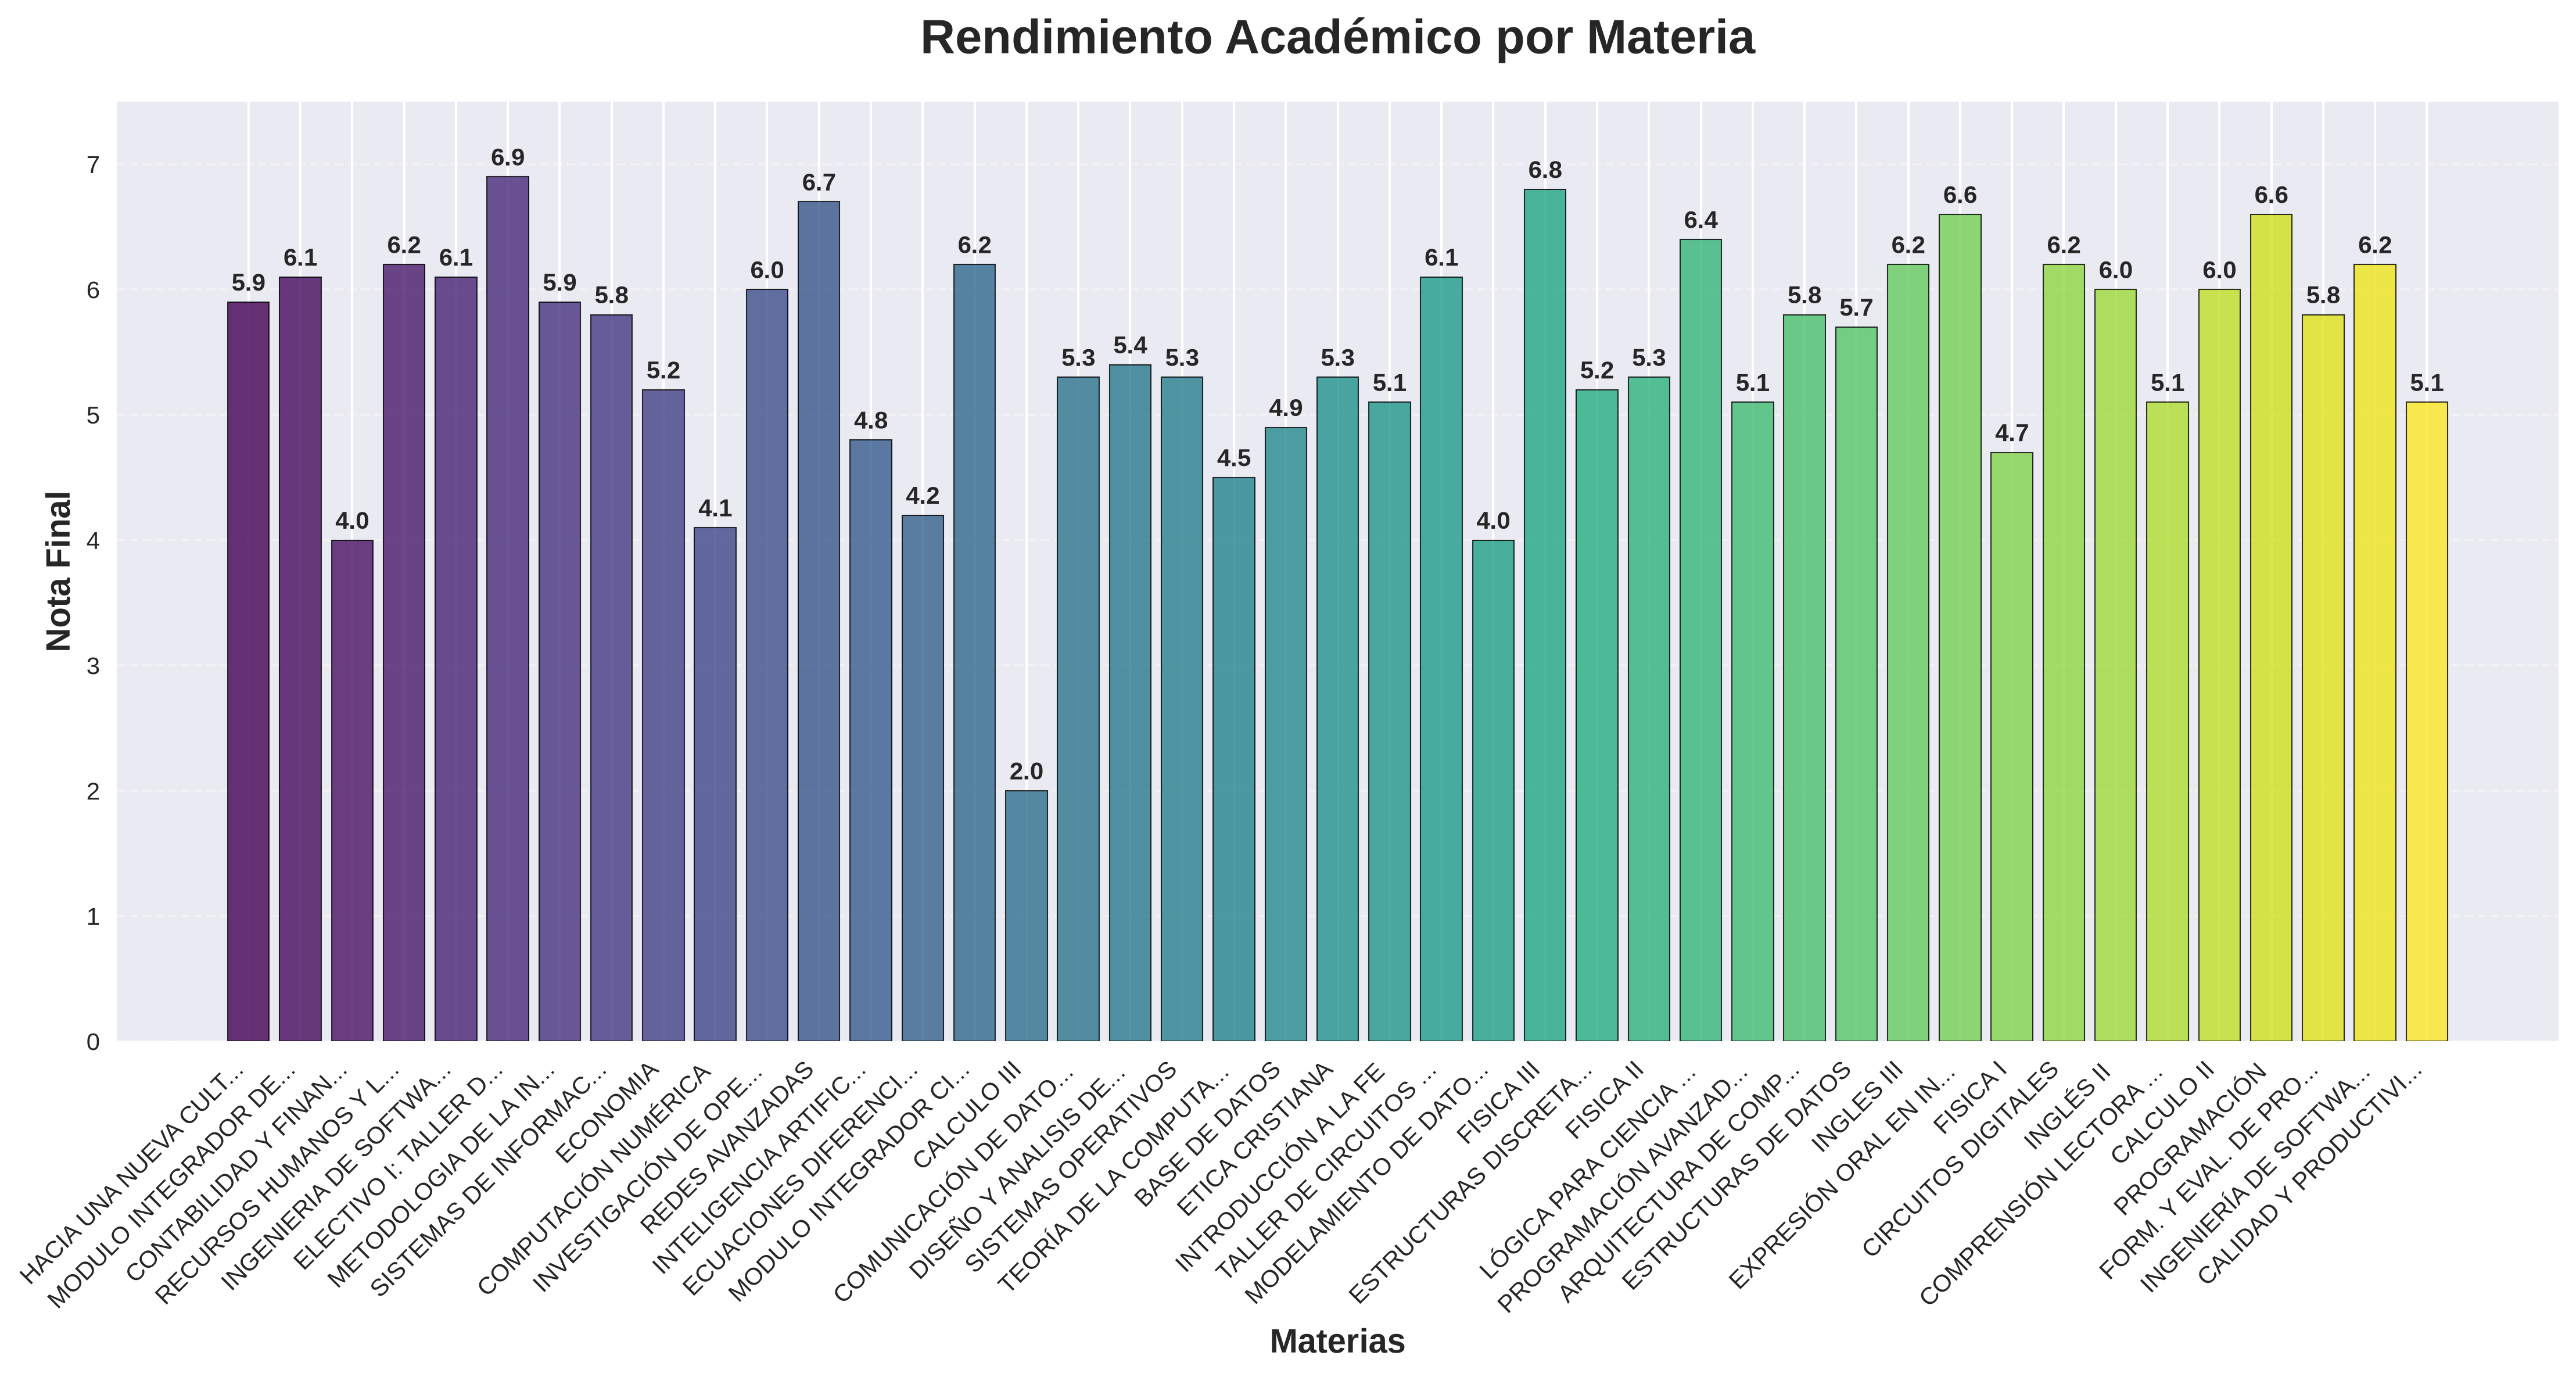
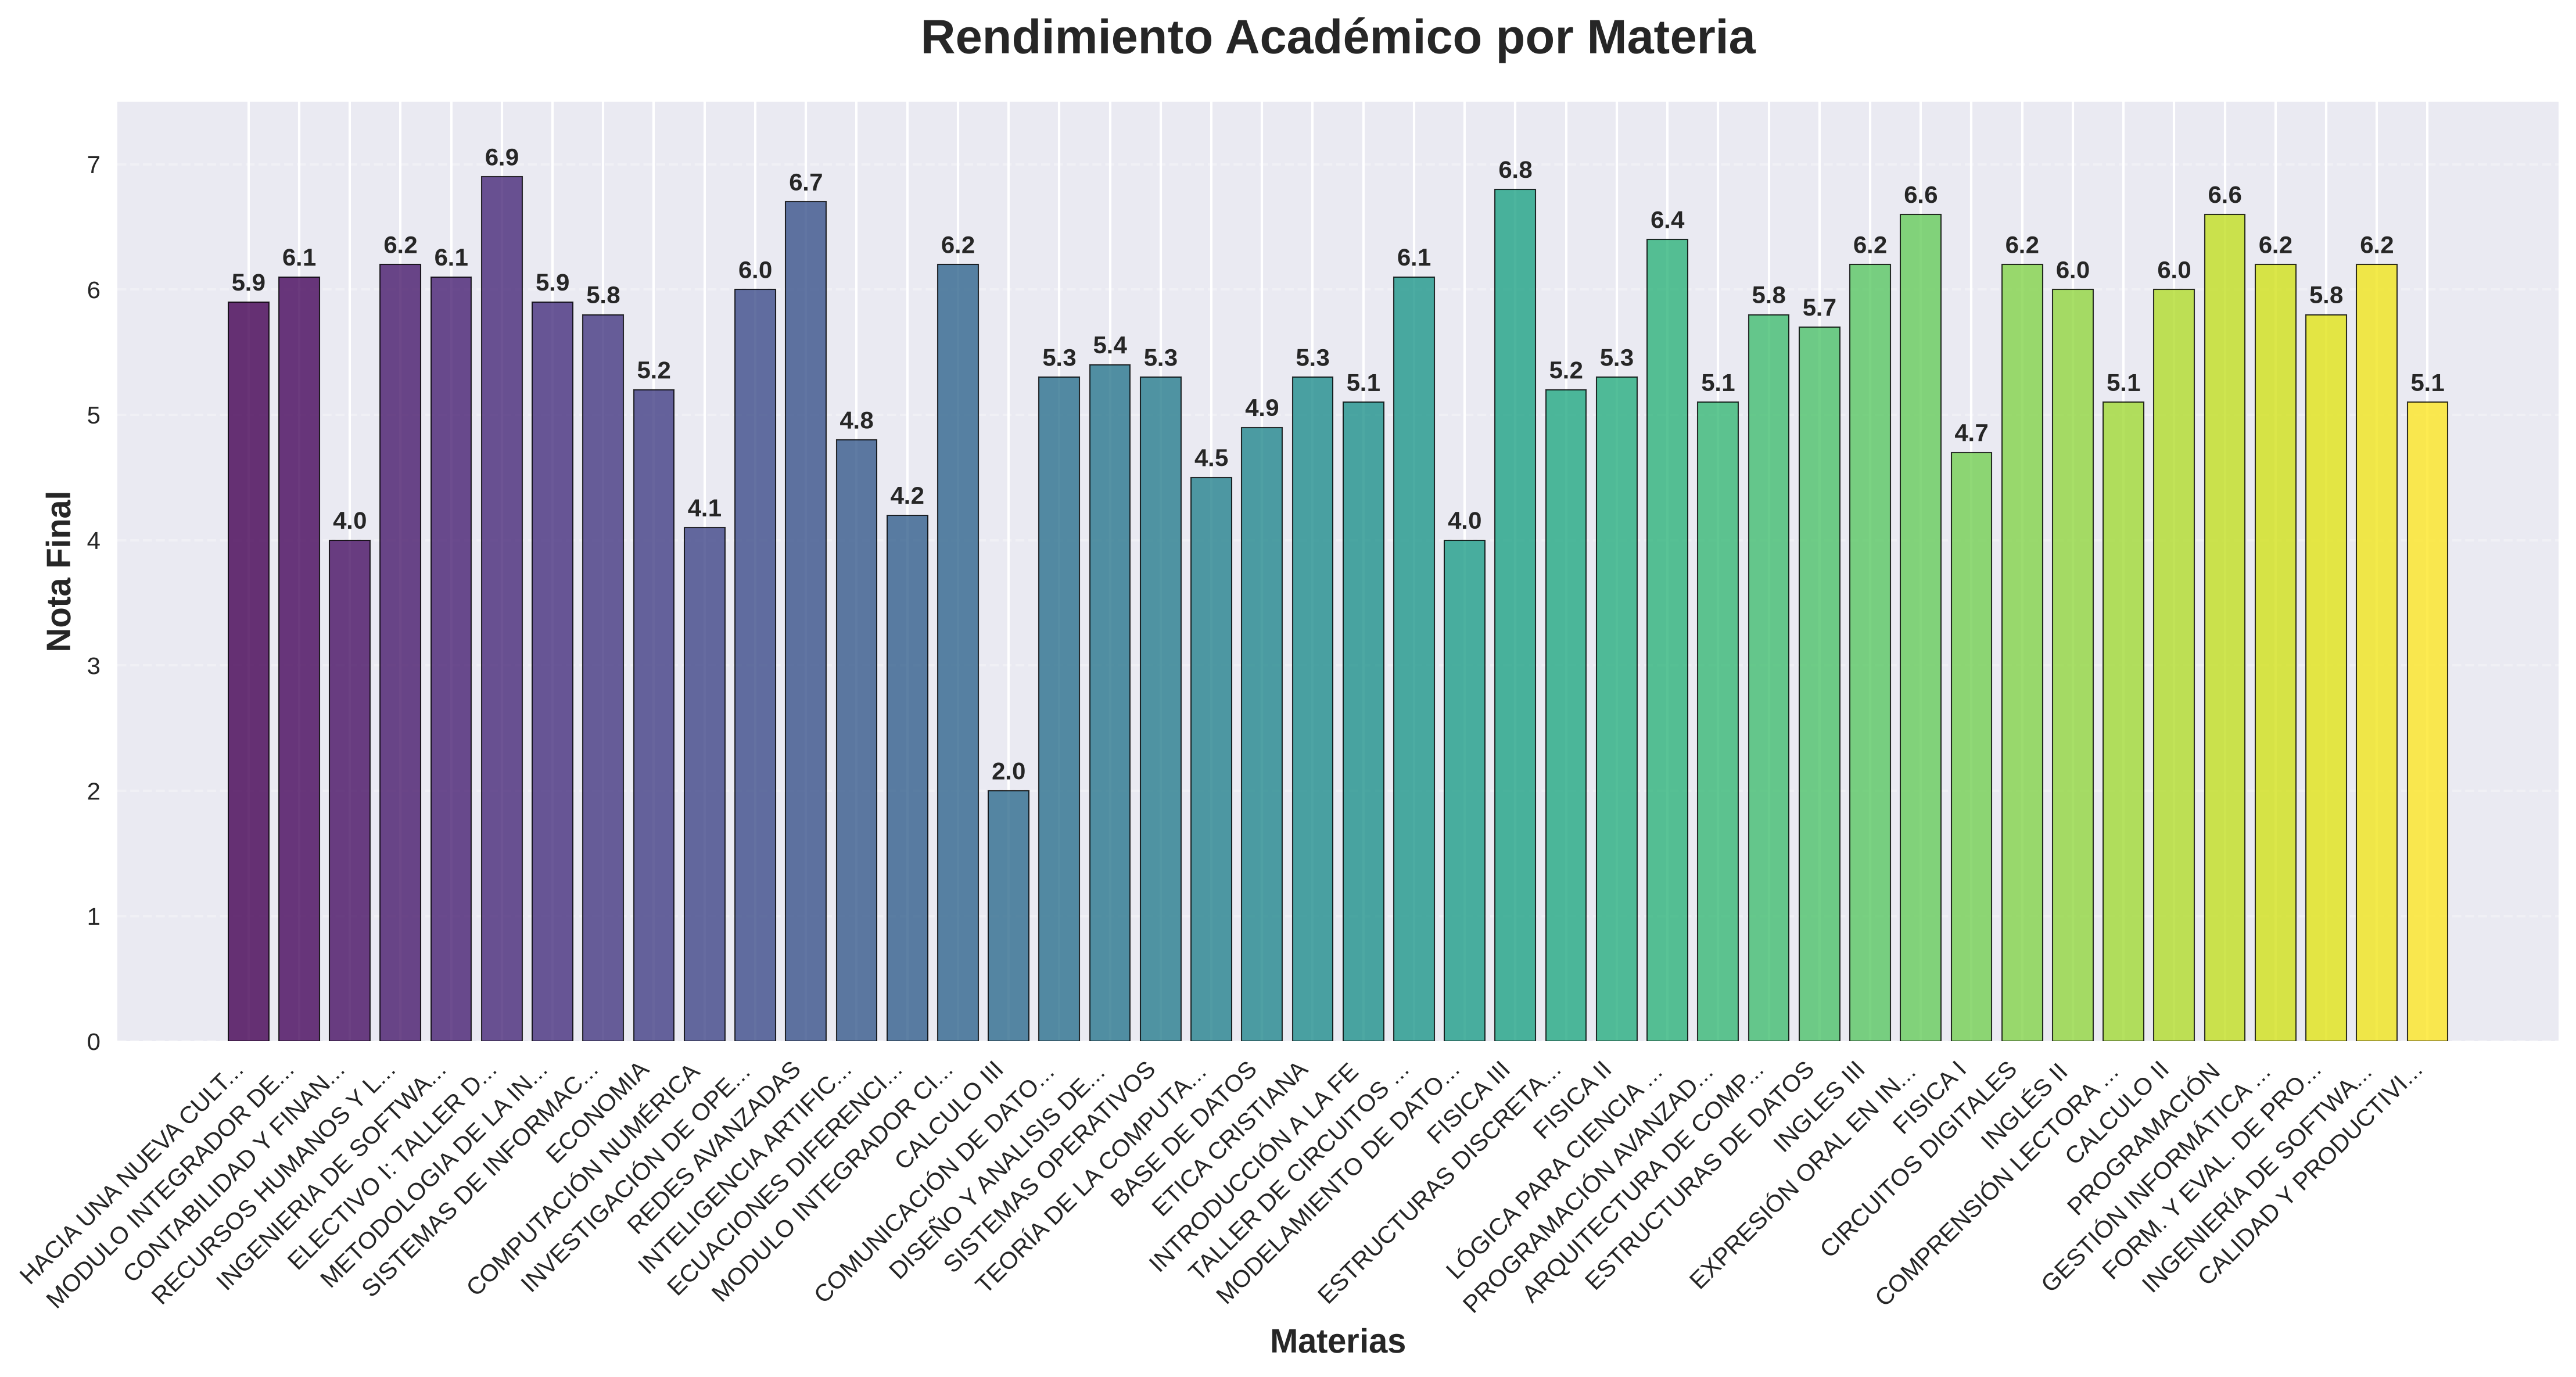
auto: actualizar notas y gráficos

Changed region(s): [[0.0311, 0.0937, 0.9337, 0.9367]]

diff --git a/dashboard/ramos_con_detalles.js b/dashboard/ramos_con_detalles.js
@@ -1,2 +1,2 @@
 /* Archivo generado automáticamente por el scraper. No editar a mano. */
-window.ramosData = {"ramos_con_detalles": [{"nombre": "HACIA UNA NUEVA CULTURA EMPRESARIAL", "nota_final": 5.9, "id_curso": "01005356", "componentes": [{"nombre": "Parcial", "porcentaje": "30%", "nota": 6.0}, {"nombre": "Parcial", "porcentaje": "30%", "nota": 7.0}, {"nombre": "Parcial", "porcentaje": "40%", "nota": 5.0}], "semestre": "Semestre 2 (Pre) 2025"}, {"nombre": "MODULO INTEGRADOR DE LICENCIATURA (PRACT", "nota_final": 6.1, "id_curso": "01003110", "componentes": [{"nombre": "Parcial", "porcentaje": "30%", "nota": 5.8}, {"nombre": "Parcial", "porcentaje": "30%", "nota": 6.4}, {"nombre": "Parcial", "porcentaje": "40%", "nota": 6.2}], "semestre": "Semestre 2 (Pre) 2025"}, {"nombre": "CONTABILIDAD Y FINANZAS", "nota_final": 4.0, "id_curso": "01003111", "componentes": [{"nombre": "Parcial", "porcentaje": "20%", "nota": 4.0}, {"nombre": "Parcial", "porcentaje": "20%", "nota": 5.9}, {"nombre": "Parcial", "porcentaje": "30%", "nota": 2.5}, {"nombre": "Parcial", "porcentaje": "30%", "nota": 4.1}], "semestre": "Semestre 2 (Pre) 2025"}, {"nombre": "RECURSOS HUMANOS Y LEGISLACIÓN", "nota_final": 6.2, "id_curso": "01003120", "componentes": [{"nombre": "Parcial", "porcentaje": "20%", "nota": 5.4}, {"nombre": "Parcial", "porcentaje": "25%", "nota": 6.5}, {"nombre": "Parcial", "porcentaje": "25%", "nota": 6.0}, {"nombre": "Parcial", "porcentaje": "30%", "nota": 6.6}], "semestre": "Semestre 2 (Pre) 2025"}, {"nombre": "INGENIERIA DE SOFTWARE I", "nota_final": 6.1, "id_curso": "01003113", "componentes": [{"nombre": "Parcial", "porcentaje": "10%", "nota": 6.3}, {"nombre": "Parcial", "porcentaje": "10%", "nota": 6.2}, {"nombre": "Parcial", "porcentaje": "20%", "nota": 7.0}, {"nombre": "Parcial", "porcentaje": "30%", "nota": 5.3}, {"nombre": "Parcial", "porcentaje": "30%", "nota": 6.2}], "semestre": "Semestre 2 (Pre) 2025"}, {"nombre": "ELECTIVO I: TALLER DE UI Y UX", "nota_final": 6.9, "id_curso": "01011131", "componentes": [{"nombre": "Parcial", "porcentaje": "20%", "nota": 7.0}, {"nombre": "Parcial", "porcentaje": "40%", "nota": 6.9}, {"nombre": "Parcial", "porcentaje": "40%", "nota": 6.8}], "semestre": "Semestre 2 (Pre) 2025"}, {"nombre": "METODOLOGIA DE LA INVESTIGACIÓN", "nota_final": 5.9, "id_curso": "01003105", "componentes": [{"nombre": "Parcial", "porcentaje": "30%", "nota": 5.5}, {"nombre": "Parcial", "porcentaje": "30%", "nota": 6.7}, {"nombre": "Parcial", "porcentaje": "40%", "nota": 5.5}], "semestre": "Semestre 1 (Pre) 2025"}, {"nombre": "SISTEMAS DE INFORMACIÓN", "nota_final": 5.8, "id_curso": "01003108", "componentes": [{"nombre": "Parcial", "porcentaje": "30%", "nota": 6.3}, {"nombre": "Parcial", "porcentaje": "30%", "nota": 7.0}, {"nombre": "Parcial", "porcentaje": "40%", "nota": 4.4}], "semestre": "Semestre 1 (Pre) 2025"}, {"nombre": "ECONOMIA", "nota_final": 5.2, "id_curso": "01003106", "componentes": [{"nombre": "Parcial", "porcentaje": "25%", "nota": 6.6}, {"nombre": "Parcial", "porcentaje": "25%", "nota": 6.0}, {"nombre": "Parcial", "porcentaje": "25%", "nota": 7.0}, {"nombre": "Parcial", "porcentaje": "25%", "nota": 1.0}], "semestre": "Semestre 1 (Pre) 2025"}, {"nombre": "CALCULO I", "nota_final": null, "id_curso": "N/A", "componentes": [], "semestre": "Semestre 1 (Pre) 2021", "error": "Message: \nStacktrace:\n#0 0x55fedd4083da <unknown>\n#1 0x55fedcdea139 <unknown>\n#2 0x55fedce3e884 <unknown>\n#3 0x55fedce3ead1 <unknown>\n#4 0x55fedce89974 <unknown>\n#5 0x55fedce86b5c <unknown>\n#6 0x55fedce31e4f <unknown>\n#7 0x55fedce32c31 <unknown>\n#8 0x55fedd3ce9f7 <unknown>\n#9 0x55fedd3cd203 <unknown>\n#10 0x55fedd3b7f16 <unknown>\n#11 0x55fedd3cdd9a <unknown>\n#12 0x55fedd39feb0 <unknown>\n#13 0x55fedd3f4d58 <unknown>\n#14 0x55fedd3f4ef5 <unknown>\n#15 0x55fedd406f5e <unknown>\n#16 0x7fd13129caa4 <unknown>\n#17 0x7fd131329c6c <unknown>\n"}, {"nombre": "COMPUTACIÓN NUMÉRICA", "nota_final": 4.1, "id_curso": "01003100", "componentes": [{"nombre": "Parcial", "porcentaje": "15%", "nota": 6.5}, {"nombre": "Parcial", "porcentaje": "15%", "nota": 7.0}, {"nombre": "Parcial", "porcentaje": "20%", "nota": 6.8}, {"nombre": "Parcial", "porcentaje": "20%", "nota": 2.0}, {"nombre": "Parcial", "porcentaje": "30%", "nota": 1.0}], "semestre": "Semestre 2 (Pre) 2024"}, {"nombre": "INVESTIGACIÓN DE OPERACIONES", "nota_final": 6.0, "id_curso": "01003101", "componentes": [{"nombre": "Parcial", "porcentaje": "15%", "nota": 7.0}, {"nombre": "Parcial", "porcentaje": "15%", "nota": 5.3}, {"nombre": "Parcial", "porcentaje": "20%", "nota": 5.8}, {"nombre": "Parcial", "porcentaje": "20%", "nota": 6.9}, {"nombre": "Parcial", "porcentaje": "30%", "nota": 5.5}], "semestre": "Semestre 2 (Pre) 2024"}, {"nombre": "REDES AVANZADAS", "nota_final": 6.7, "id_curso": "01003114", "componentes": [{"nombre": "Parcial", "porcentaje": "45%", "nota": 6.7}, {"nombre": "Parcial", "porcentaje": "55%", "nota": 6.7}], "semestre": "Semestre 2 (Pre) 2024"}, {"nombre": "INTELIGENCIA ARTIFICIAL", "nota_final": 4.8, "id_curso": "01003112", "componentes": [{"nombre": "Parcial", "porcentaje": "10%", "nota": 5.9}, {"nombre": "Parcial", "porcentaje": "10%", "nota": 7.0}, {"nombre": "Parcial", "porcentaje": "20%", "nota": 5.3}, {"nombre": "Parcial", "porcentaje": "30%", "nota": 4.0}, {"nombre": "Parcial", "porcentaje": "30%", "nota": 4.0}], "semestre": "Semestre 2 (Pre) 2024"}, {"nombre": "ECUACIONES DIFERENCIALES", "nota_final": 4.2, "id_curso": "01003090", "componentes": [{"nombre": "Parcial", "porcentaje": "15%", "nota": 4.0}, {"nombre": "Parcial", "porcentaje": "15%", "nota": 5.0}, {"nombre": "Parcial", "porcentaje": "20%", "nota": 3.7}, {"nombre": "Parcial", "porcentaje": "20%", "nota": 4.3}, {"nombre": "Parcial", "porcentaje": "30%", "nota": 4.2}], "semestre": "Semestre 2 (Pre) 2024"}, {"nombre": "MODULO INTEGRADOR CIENCIAS BÁSICAS", "nota_final": 6.2, "id_curso": "01003094", "componentes": [{"nombre": "Parcial", "porcentaje": "40%", "nota": 6.1}, {"nombre": "Parcial", "porcentaje": "60%", "nota": 6.2}], "semestre": "Semestre 2 (Pre) 2024"}, {"nombre": "CALCULO III", "nota_final": 2.0, "id_curso": "01003085", "componentes": [{"nombre": "Parcial", "porcentaje": "20%", "nota": 2.2}, {"nombre": "Parcial", "porcentaje": "25%", "nota": 2.4}, {"nombre": "Parcial", "porcentaje": "25%", "nota": 2.2}, {"nombre": "Parcial", "porcentaje": "30%", "nota": 1.3}], "semestre": "Semestre 1 (Pre) 2023"}, {"nombre": "COMUNICACIÓN DE DATOS Y REDES", "nota_final": 5.3, "id_curso": "01003109", "componentes": [{"nombre": "Parcial", "porcentaje": "15%", "nota": 5.3}, {"nombre": "Parcial", "porcentaje": "15%", "nota": 5.3}, {"nombre": "Parcial", "porcentaje": "20%", "nota": 5.3}, {"nombre": "Parcial", "porcentaje": "20%", "nota": 5.3}, {"nombre": "Parcial", "porcentaje": "30%", "nota": 5.3}], "semestre": "Semestre 1 (Pre) 2024"}, {"nombre": "DISEÑO Y ANALISIS DE ALGORITMOS", "nota_final": 5.4, "id_curso": "01003107", "componentes": [{"nombre": "Parcial", "porcentaje": "30%", "nota": 6.0}, {"nombre": "Parcial", "porcentaje": "70%", "nota": 5.2}], "semestre": "Semestre 1 (Pre) 2024"}, {"nombre": "SISTEMAS OPERATIVOS", "nota_final": 5.3, "id_curso": "01003104", "componentes": [{"nombre": "Parcial", "porcentaje": "25%", "nota": 5.5}, {"nombre": "Parcial", "porcentaje": "35%", "nota": 6.1}, {"nombre": "Parcial", "porcentaje": "40%", "nota": 4.4}], "semestre": "Semestre 2 (Pre) 2023"}, {"nombre": "TEORÍA DE LA COMPUTACION", "nota_final": 4.5, "id_curso": "01003102", "componentes": [{"nombre": "Parcial", "porcentaje": "25%", "nota": 5.9}, {"nombre": "Parcial", "porcentaje": "25%", "nota": 6.7}, {"nombre": "Parcial", "porcentaje": "25%", "nota": 4.2}, {"nombre": "Parcial", "porcentaje": "25%", "nota": 1.0}], "semestre": "Semestre 2 (Pre) 2023"}, {"nombre": "BASE DE DATOS", "nota_final": 4.9, "id_curso": "01003103", "componentes": [{"nombre": "Parcial", "porcentaje": "30%", "nota": 3.6}, {"nombre": "Parcial", "porcentaje": "30%", "nota": 5.7}, {"nombre": "Parcial", "porcentaje": "40%", "nota": 5.3}], "semestre": "Semestre 2 (Pre) 2023"}, {"nombre": "ETICA CRISTIANA", "nota_final": 5.3, "id_curso": "01005880", "componentes": [{"nombre": "Parcial", "porcentaje": "30%", "nota": 5.0}, {"nombre": "Parcial", "porcentaje": "30%", "nota": 6.5}, {"nombre": "Parcial", "porcentaje": "40%", "nota": 4.5}], "semestre": "Semestre 2 (Pre) 2023"}, {"nombre": "INTRODUCCIÓN A LA FE", "nota_final": 5.1, "id_curso": "01005831", "componentes": [{"nombre": "Parcial", "porcentaje": "20%", "nota": 6.8}, {"nombre": "Parcial", "porcentaje": "25%", "nota": 6.6}, {"nombre": "Parcial", "porcentaje": "25%", "nota": 1.0}, {"nombre": "Parcial", "porcentaje": "30%", "nota": 6.0}], "semestre": "Semestre 1 (Pre) 2023"}, {"nombre": "TALLER DE CIRCUITOS DIGITALES", "nota_final": 6.1, "id_curso": "01003099", "componentes": [{"nombre": "Parcial", "porcentaje": "20%", "nota": 6.0}, {"nombre": "Parcial", "porcentaje": "20%", "nota": 6.6}, {"nombre": "Parcial", "porcentaje": "20%", "nota": 6.0}, {"nombre": "Parcial", "porcentaje": "40%", "nota": 6.0}], "semestre": "Semestre 1 (Pre) 2023"}, {"nombre": "MODELAMIENTO DE DATOS", "nota_final": 4.0, "id_curso": "01003098", "componentes": [{"nombre": "Parcial", "porcentaje": "20%", "nota": 3.8}, {"nombre": "Parcial", "porcentaje": "40%", "nota": 5.5}, {"nombre": "Parcial", "porcentaje": "40%", "nota": 2.7}], "semestre": "Semestre 1 (Pre) 2023"}, {"nombre": "FISICA III", "nota_final": 6.8, "id_curso": "01003095", "componentes": [{"nombre": "Parcial", "porcentaje": "20%", "nota": 6.5}, {"nombre": "Parcial", "porcentaje": "20%", "nota": 7.0}, {"nombre": "Parcial", "porcentaje": "30%", "nota": 6.8}, {"nombre": "Parcial", "porcentaje": "30%", "nota": 6.8}], "semestre": "Semestre 1 (Pre) 2023"}, {"nombre": "ESTRUCTURAS DISCRETAS", "nota_final": 5.2, "id_curso": "01003097", "componentes": [{"nombre": "Parcial", "porcentaje": "15%", "nota": 4.8}, {"nombre": "Parcial", "porcentaje": "15%", "nota": 4.8}, {"nombre": "Parcial", "porcentaje": "20%", "nota": 4.8}, {"nombre": "Parcial", "porcentaje": "20%", "nota": 5.8}, {"nombre": "Parcial", "porcentaje": "30%", "nota": 5.4}], "semestre": "Semestre 1 (Pre) 2023"}, {"nombre": "FISICA II", "nota_final": 5.3, "id_curso": "01003089", "componentes": [{"nombre": "Parcial", "porcentaje": "30%", "nota": 5.3}, {"nombre": "Parcial", "porcentaje": "35%", "nota": 4.1}, {"nombre": "Parcial", "porcentaje": "35%", "nota": 6.4}], "semestre": "Semestre 2 (Pre) 2022"}, {"nombre": "LÓGICA PARA CIENCIA DE LA COMPUTACIÓN", "nota_final": 6.4, "id_curso": "01003092", "componentes": [{"nombre": "Parcial", "porcentaje": "30%", "nota": 5.6}, {"nombre": "Parcial", "porcentaje": "35%", "nota": 7.0}, {"nombre": "Parcial", "porcentaje": "35%", "nota": 6.6}], "semestre": "Semestre 2 (Pre) 2022"}, {"nombre": "PROGRAMACIÓN AVANZADA", "nota_final": 5.1, "id_curso": "01003091", "componentes": [{"nombre": "Parcial", "porcentaje": "20%", "nota": 4.0}, {"nombre": "Parcial", "porcentaje": "20%", "nota": 7.0}, {"nombre": "Parcial", "porcentaje": "30%", "nota": 4.6}, {"nombre": "Parcial", "porcentaje": "30%", "nota": 5.1}], "semestre": "Semestre 2 (Pre) 2022"}, {"nombre": "ARQUITECTURA DE COMPUTADORES", "nota_final": 5.8, "id_curso": "01003093", "componentes": [{"nombre": "Parcial", "porcentaje": "15%", "nota": 2.9}, {"nombre": "Parcial", "porcentaje": "20%", "nota": 7.0}, {"nombre": "Parcial", "porcentaje": "20%", "nota": 7.0}, {"nombre": "Parcial", "porcentaje": "20%", "nota": 5.9}, {"nombre": "Parcial", "porcentaje": "25%", "nota": 5.7}], "semestre": "Semestre 2 (Pre) 2022"}, {"nombre": "ALGEBRA II", "nota_final": null, "id_curso": "01003080", "componentes": [{"nombre": "Parcial", "porcentaje": "15%", "nota": null}, {"nombre": "Parcial", "porcentaje": "15%", "nota": null}, {"nombre": "Parcial", "porcentaje": "20%", "nota": null}, {"nombre": "Parcial", "porcentaje": "20%", "nota": null}, {"nombre": "Parcial", "porcentaje": "30%", "nota": null}], "semestre": "Semestre 2 (Pre) 2021"}, {"nombre": "ESTRUCTURAS DE DATOS", "nota_final": 5.7, "id_curso": "01003086", "componentes": [{"nombre": "Parcial", "porcentaje": "20%", "nota": 3.8}, {"nombre": "Parcial", "porcentaje": "40%", "nota": 6.5}, {"nombre": "Parcial", "porcentaje": "40%", "nota": 5.8}], "semestre": "Semestre 1 (Pre) 2022"}, {"nombre": "INGLES III", "nota_final": 6.2, "id_curso": "01005809", "componentes": [{"nombre": "Parcial", "porcentaje": "50%", "nota": 6.7}, {"nombre": "Parcial", "porcentaje": "50%", "nota": 5.6}], "semestre": "Semestre 1 (Pre) 2022"}, {"nombre": "EXPRESIÓN ORAL EN INGENIERIA", "nota_final": 6.6, "id_curso": "01003087", "componentes": [{"nombre": "Parcial", "porcentaje": "25%", "nota": 7.0}, {"nombre": "Parcial", "porcentaje": "25%", "nota": 7.0}, {"nombre": "Parcial", "porcentaje": "25%", "nota": 5.5}, {"nombre": "Parcial", "porcentaje": "25%", "nota": 6.8}], "semestre": "Semestre 1 (Pre) 2022"}, {"nombre": "FISICA I", "nota_final": 4.7, "id_curso": "01003084", "componentes": [{"nombre": "Parcial", "porcentaje": "15%", "nota": 6.2}, {"nombre": "Parcial", "porcentaje": "15%", "nota": 6.3}, {"nombre": "Parcial", "porcentaje": "20%", "nota": 1.3}, {"nombre": "Parcial", "porcentaje": "20%", "nota": 6.0}, {"nombre": "Parcial", "porcentaje": "30%", "nota": 4.6}], "semestre": "Semestre 1 (Pre) 2022"}, {"nombre": "CIRCUITOS DIGITALES", "nota_final": 6.2, "id_curso": "01003088", "componentes": [{"nombre": "Parcial", "porcentaje": "25%", "nota": 5.3}, {"nombre": "Parcial", "porcentaje": "25%", "nota": 7.0}, {"nombre": "Parcial", "porcentaje": "25%", "nota": 6.3}, {"nombre": "Parcial", "porcentaje": "25%", "nota": 6.2}], "semestre": "Semestre 1 (Pre) 2022"}, {"nombre": "INGLÉS II", "nota_final": 6.0, "id_curso": "01005759", "componentes": [{"nombre": "Parcial", "porcentaje": "50%", "nota": 6.0}, {"nombre": "Parcial", "porcentaje": "50%", "nota": 6.0}], "semestre": "Semestre 2 (Pre) 2021"}, {"nombre": "COMPRENSIÓN LECTORA Y PROD. DE TEXTOS", "nota_final": 5.1, "id_curso": "01003083", "componentes": [{"nombre": "Parcial", "porcentaje": "25%", "nota": 5.3}, {"nombre": "Parcial", "porcentaje": "25%", "nota": 5.5}, {"nombre": "Parcial", "porcentaje": "25%", "nota": 3.0}, {"nombre": "Parcial", "porcentaje": "25%", "nota": 6.5}], "semestre": "Semestre 2 (Pre) 2021"}, {"nombre": "CALCULO II", "nota_final": 6.0, "id_curso": "01003081", "componentes": [{"nombre": "Parcial", "porcentaje": "20%", "nota": 6.6}, {"nombre": "Parcial", "porcentaje": "20%", "nota": 5.5}, {"nombre": "Parcial", "porcentaje": "30%", "nota": 5.9}, {"nombre": "Parcial", "porcentaje": "30%", "nota": 6.0}], "semestre": "Semestre 2 (Pre) 2021"}, {"nombre": "PROGRAMACIÓN", "nota_final": 6.6, "id_curso": "01003082", "componentes": [{"nombre": "Parcial", "porcentaje": "20%", "nota": 7.0}, {"nombre": "Parcial", "porcentaje": "20%", "nota": 7.0}, {"nombre": "Parcial", "porcentaje": "20%", "nota": 5.8}, {"nombre": "Parcial", "porcentaje": "40%", "nota": 6.5}], "semestre": "Semestre 2 (Pre) 2021"}, {"nombre": "SISTEMAS DISTRIBUIDOS", "nota_final": null, "id_curso": "01003119", "componentes": [{"nombre": "Parcial", "porcentaje": "30%", "nota": null}, {"nombre": "Parcial", "porcentaje": "30%", "nota": null}, {"nombre": "Parcial", "porcentaje": "40%", "nota": null}], "semestre": "Semestre 1 (Pre) 2026"}, {"nombre": "FORM. Y EVAL. DE PROYECTOS INFORMÁTICOS", "nota_final": 5.8, "id_curso": "01003115", "componentes": [{"nombre": "Parcial", "porcentaje": "25%", "nota": 3.6}, {"nombre": "Parcial", "porcentaje": "35%", "nota": 6.7}, {"nombre": "Parcial", "porcentaje": "40%", "nota": 6.3}], "semestre": "Semestre 1 (Pre) 2026"}, {"nombre": "INGENIERÍA DE SOFTWARE II", "nota_final": 6.2, "id_curso": "01003118", "componentes": [{"nombre": "Parcial", "porcentaje": "20%", "nota": 6.5}, {"nombre": "Parcial", "porcentaje": "20%", "nota": 6.3}, {"nombre": "Parcial", "porcentaje": "30%", "nota": 6.0}, {"nombre": "Parcial", "porcentaje": "30%", "nota": 6.2}], "semestre": "Semestre 1 (Pre) 2026"}, {"nombre": "CALIDAD Y PRODUCTIVIDAD DE SOFTWARE", "nota_final": 5.1, "id_curso": "01003117", "componentes": [{"nombre": "Parcial", "porcentaje": "20%", "nota": 5.0}, {"nombre": "Parcial", "porcentaje": "25%", "nota": 3.3}, {"nombre": "Parcial", "porcentaje": "25%", "nota": 5.6}, {"nombre": "Parcial", "porcentaje": "30%", "nota": 6.1}], "semestre": "Semestre 1 (Pre) 2026"}, {"nombre": "GESTIÓN INFORMÁTICA I", "nota_final": null, "id_curso": "01003116", "componentes": [{"nombre": "Parcial", "porcentaje": "20%", "nota": 6.8}, {"nombre": "Parcial", "porcentaje": "20%", "nota": 5.2}, {"nombre": "Parcial", "porcentaje": "30%", "nota": 5.8}, {"nombre": "Parcial", "porcentaje": "30%", "nota": 7.0}], "semestre": "Semestre 1 (Pre) 2026"}, {"nombre": "IMPLEMENTACION DE LA R.S.E. Y NUEVOS DES", "nota_final": null, "id_curso": "01005358", "componentes": [{"nombre": "Parcial", "porcentaje": "30%", "nota": 7.0}, {"nombre": "Parcial", "porcentaje": "30%", "nota": 5.2}, {"nombre": "Parcial", "porcentaje": "40%", "nota": null}], "semestre": "Semestre 1 (Pre) 2026"}]};
+window.ramosData = {"ramos_con_detalles": [{"nombre": "HACIA UNA NUEVA CULTURA EMPRESARIAL", "nota_final": 5.9, "id_curso": "01005356", "componentes": [{"nombre": "Parcial", "porcentaje": "30%", "nota": 6.0}, {"nombre": "Parcial", "porcentaje": "30%", "nota": 7.0}, {"nombre": "Parcial", "porcentaje": "40%", "nota": 5.0}], "semestre": "Semestre 2 (Pre) 2025"}, {"nombre": "MODULO INTEGRADOR DE LICENCIATURA (PRACT", "nota_final": 6.1, "id_curso": "01003110", "componentes": [{"nombre": "Parcial", "porcentaje": "30%", "nota": 5.8}, {"nombre": "Parcial", "porcentaje": "30%", "nota": 6.4}, {"nombre": "Parcial", "porcentaje": "40%", "nota": 6.2}], "semestre": "Semestre 2 (Pre) 2025"}, {"nombre": "CONTABILIDAD Y FINANZAS", "nota_final": 4.0, "id_curso": "01003111", "componentes": [{"nombre": "Parcial", "porcentaje": "20%", "nota": 4.0}, {"nombre": "Parcial", "porcentaje": "20%", "nota": 5.9}, {"nombre": "Parcial", "porcentaje": "30%", "nota": 2.5}, {"nombre": "Parcial", "porcentaje": "30%", "nota": 4.1}], "semestre": "Semestre 2 (Pre) 2025"}, {"nombre": "RECURSOS HUMANOS Y LEGISLACIÓN", "nota_final": 6.2, "id_curso": "01003120", "componentes": [{"nombre": "Parcial", "porcentaje": "20%", "nota": 5.4}, {"nombre": "Parcial", "porcentaje": "25%", "nota": 6.5}, {"nombre": "Parcial", "porcentaje": "25%", "nota": 6.0}, {"nombre": "Parcial", "porcentaje": "30%", "nota": 6.6}], "semestre": "Semestre 2 (Pre) 2025"}, {"nombre": "INGENIERIA DE SOFTWARE I", "nota_final": 6.1, "id_curso": "01003113", "componentes": [{"nombre": "Parcial", "porcentaje": "10%", "nota": 6.3}, {"nombre": "Parcial", "porcentaje": "10%", "nota": 6.2}, {"nombre": "Parcial", "porcentaje": "20%", "nota": 7.0}, {"nombre": "Parcial", "porcentaje": "30%", "nota": 5.3}, {"nombre": "Parcial", "porcentaje": "30%", "nota": 6.2}], "semestre": "Semestre 2 (Pre) 2025"}, {"nombre": "ELECTIVO I: TALLER DE UI Y UX", "nota_final": 6.9, "id_curso": "01011131", "componentes": [{"nombre": "Parcial", "porcentaje": "20%", "nota": 7.0}, {"nombre": "Parcial", "porcentaje": "40%", "nota": 6.9}, {"nombre": "Parcial", "porcentaje": "40%", "nota": 6.8}], "semestre": "Semestre 2 (Pre) 2025"}, {"nombre": "METODOLOGIA DE LA INVESTIGACIÓN", "nota_final": 5.9, "id_curso": "01003105", "componentes": [{"nombre": "Parcial", "porcentaje": "30%", "nota": 5.5}, {"nombre": "Parcial", "porcentaje": "30%", "nota": 6.7}, {"nombre": "Parcial", "porcentaje": "40%", "nota": 5.5}], "semestre": "Semestre 1 (Pre) 2025"}, {"nombre": "SISTEMAS DE INFORMACIÓN", "nota_final": 5.8, "id_curso": "01003108", "componentes": [{"nombre": "Parcial", "porcentaje": "30%", "nota": 6.3}, {"nombre": "Parcial", "porcentaje": "30%", "nota": 7.0}, {"nombre": "Parcial", "porcentaje": "40%", "nota": 4.4}], "semestre": "Semestre 1 (Pre) 2025"}, {"nombre": "ECONOMIA", "nota_final": 5.2, "id_curso": "01003106", "componentes": [{"nombre": "Parcial", "porcentaje": "25%", "nota": 6.6}, {"nombre": "Parcial", "porcentaje": "25%", "nota": 6.0}, {"nombre": "Parcial", "porcentaje": "25%", "nota": 7.0}, {"nombre": "Parcial", "porcentaje": "25%", "nota": 1.0}], "semestre": "Semestre 1 (Pre) 2025"}, {"nombre": "CALCULO I", "nota_final": null, "id_curso": "N/A", "componentes": [], "semestre": "Semestre 1 (Pre) 2021", "error": "Message: \nStacktrace:\n#0 0x55fedd4083da <unknown>\n#1 0x55fedcdea139 <unknown>\n#2 0x55fedce3e884 <unknown>\n#3 0x55fedce3ead1 <unknown>\n#4 0x55fedce89974 <unknown>\n#5 0x55fedce86b5c <unknown>\n#6 0x55fedce31e4f <unknown>\n#7 0x55fedce32c31 <unknown>\n#8 0x55fedd3ce9f7 <unknown>\n#9 0x55fedd3cd203 <unknown>\n#10 0x55fedd3b7f16 <unknown>\n#11 0x55fedd3cdd9a <unknown>\n#12 0x55fedd39feb0 <unknown>\n#13 0x55fedd3f4d58 <unknown>\n#14 0x55fedd3f4ef5 <unknown>\n#15 0x55fedd406f5e <unknown>\n#16 0x7fd13129caa4 <unknown>\n#17 0x7fd131329c6c <unknown>\n"}, {"nombre": "COMPUTACIÓN NUMÉRICA", "nota_final": 4.1, "id_curso": "01003100", "componentes": [{"nombre": "Parcial", "porcentaje": "15%", "nota": 6.5}, {"nombre": "Parcial", "porcentaje": "15%", "nota": 7.0}, {"nombre": "Parcial", "porcentaje": "20%", "nota": 6.8}, {"nombre": "Parcial", "porcentaje": "20%", "nota": 2.0}, {"nombre": "Parcial", "porcentaje": "30%", "nota": 1.0}], "semestre": "Semestre 2 (Pre) 2024"}, {"nombre": "INVESTIGACIÓN DE OPERACIONES", "nota_final": 6.0, "id_curso": "01003101", "componentes": [{"nombre": "Parcial", "porcentaje": "15%", "nota": 7.0}, {"nombre": "Parcial", "porcentaje": "15%", "nota": 5.3}, {"nombre": "Parcial", "porcentaje": "20%", "nota": 5.8}, {"nombre": "Parcial", "porcentaje": "20%", "nota": 6.9}, {"nombre": "Parcial", "porcentaje": "30%", "nota": 5.5}], "semestre": "Semestre 2 (Pre) 2024"}, {"nombre": "REDES AVANZADAS", "nota_final": 6.7, "id_curso": "01003114", "componentes": [{"nombre": "Parcial", "porcentaje": "45%", "nota": 6.7}, {"nombre": "Parcial", "porcentaje": "55%", "nota": 6.7}], "semestre": "Semestre 2 (Pre) 2024"}, {"nombre": "INTELIGENCIA ARTIFICIAL", "nota_final": 4.8, "id_curso": "01003112", "componentes": [{"nombre": "Parcial", "porcentaje": "10%", "nota": 5.9}, {"nombre": "Parcial", "porcentaje": "10%", "nota": 7.0}, {"nombre": "Parcial", "porcentaje": "20%", "nota": 5.3}, {"nombre": "Parcial", "porcentaje": "30%", "nota": 4.0}, {"nombre": "Parcial", "porcentaje": "30%", "nota": 4.0}], "semestre": "Semestre 2 (Pre) 2024"}, {"nombre": "ECUACIONES DIFERENCIALES", "nota_final": 4.2, "id_curso": "01003090", "componentes": [{"nombre": "Parcial", "porcentaje": "15%", "nota": 4.0}, {"nombre": "Parcial", "porcentaje": "15%", "nota": 5.0}, {"nombre": "Parcial", "porcentaje": "20%", "nota": 3.7}, {"nombre": "Parcial", "porcentaje": "20%", "nota": 4.3}, {"nombre": "Parcial", "porcentaje": "30%", "nota": 4.2}], "semestre": "Semestre 2 (Pre) 2024"}, {"nombre": "MODULO INTEGRADOR CIENCIAS BÁSICAS", "nota_final": 6.2, "id_curso": "01003094", "componentes": [{"nombre": "Parcial", "porcentaje": "40%", "nota": 6.1}, {"nombre": "Parcial", "porcentaje": "60%", "nota": 6.2}], "semestre": "Semestre 2 (Pre) 2024"}, {"nombre": "CALCULO III", "nota_final": 2.0, "id_curso": "01003085", "componentes": [{"nombre": "Parcial", "porcentaje": "20%", "nota": 2.2}, {"nombre": "Parcial", "porcentaje": "25%", "nota": 2.4}, {"nombre": "Parcial", "porcentaje": "25%", "nota": 2.2}, {"nombre": "Parcial", "porcentaje": "30%", "nota": 1.3}], "semestre": "Semestre 1 (Pre) 2023"}, {"nombre": "COMUNICACIÓN DE DATOS Y REDES", "nota_final": 5.3, "id_curso": "01003109", "componentes": [{"nombre": "Parcial", "porcentaje": "15%", "nota": 5.3}, {"nombre": "Parcial", "porcentaje": "15%", "nota": 5.3}, {"nombre": "Parcial", "porcentaje": "20%", "nota": 5.3}, {"nombre": "Parcial", "porcentaje": "20%", "nota": 5.3}, {"nombre": "Parcial", "porcentaje": "30%", "nota": 5.3}], "semestre": "Semestre 1 (Pre) 2024"}, {"nombre": "DISEÑO Y ANALISIS DE ALGORITMOS", "nota_final": 5.4, "id_curso": "01003107", "componentes": [{"nombre": "Parcial", "porcentaje": "30%", "nota": 6.0}, {"nombre": "Parcial", "porcentaje": "70%", "nota": 5.2}], "semestre": "Semestre 1 (Pre) 2024"}, {"nombre": "SISTEMAS OPERATIVOS", "nota_final": 5.3, "id_curso": "01003104", "componentes": [{"nombre": "Parcial", "porcentaje": "25%", "nota": 5.5}, {"nombre": "Parcial", "porcentaje": "35%", "nota": 6.1}, {"nombre": "Parcial", "porcentaje": "40%", "nota": 4.4}], "semestre": "Semestre 2 (Pre) 2023"}, {"nombre": "TEORÍA DE LA COMPUTACION", "nota_final": 4.5, "id_curso": "01003102", "componentes": [{"nombre": "Parcial", "porcentaje": "25%", "nota": 5.9}, {"nombre": "Parcial", "porcentaje": "25%", "nota": 6.7}, {"nombre": "Parcial", "porcentaje": "25%", "nota": 4.2}, {"nombre": "Parcial", "porcentaje": "25%", "nota": 1.0}], "semestre": "Semestre 2 (Pre) 2023"}, {"nombre": "BASE DE DATOS", "nota_final": 4.9, "id_curso": "01003103", "componentes": [{"nombre": "Parcial", "porcentaje": "30%", "nota": 3.6}, {"nombre": "Parcial", "porcentaje": "30%", "nota": 5.7}, {"nombre": "Parcial", "porcentaje": "40%", "nota": 5.3}], "semestre": "Semestre 2 (Pre) 2023"}, {"nombre": "ETICA CRISTIANA", "nota_final": 5.3, "id_curso": "01005880", "componentes": [{"nombre": "Parcial", "porcentaje": "30%", "nota": 5.0}, {"nombre": "Parcial", "porcentaje": "30%", "nota": 6.5}, {"nombre": "Parcial", "porcentaje": "40%", "nota": 4.5}], "semestre": "Semestre 2 (Pre) 2023"}, {"nombre": "INTRODUCCIÓN A LA FE", "nota_final": 5.1, "id_curso": "01005831", "componentes": [{"nombre": "Parcial", "porcentaje": "20%", "nota": 6.8}, {"nombre": "Parcial", "porcentaje": "25%", "nota": 6.6}, {"nombre": "Parcial", "porcentaje": "25%", "nota": 1.0}, {"nombre": "Parcial", "porcentaje": "30%", "nota": 6.0}], "semestre": "Semestre 1 (Pre) 2023"}, {"nombre": "TALLER DE CIRCUITOS DIGITALES", "nota_final": 6.1, "id_curso": "01003099", "componentes": [{"nombre": "Parcial", "porcentaje": "20%", "nota": 6.0}, {"nombre": "Parcial", "porcentaje": "20%", "nota": 6.6}, {"nombre": "Parcial", "porcentaje": "20%", "nota": 6.0}, {"nombre": "Parcial", "porcentaje": "40%", "nota": 6.0}], "semestre": "Semestre 1 (Pre) 2023"}, {"nombre": "MODELAMIENTO DE DATOS", "nota_final": 4.0, "id_curso": "01003098", "componentes": [{"nombre": "Parcial", "porcentaje": "20%", "nota": 3.8}, {"nombre": "Parcial", "porcentaje": "40%", "nota": 5.5}, {"nombre": "Parcial", "porcentaje": "40%", "nota": 2.7}], "semestre": "Semestre 1 (Pre) 2023"}, {"nombre": "FISICA III", "nota_final": 6.8, "id_curso": "01003095", "componentes": [{"nombre": "Parcial", "porcentaje": "20%", "nota": 6.5}, {"nombre": "Parcial", "porcentaje": "20%", "nota": 7.0}, {"nombre": "Parcial", "porcentaje": "30%", "nota": 6.8}, {"nombre": "Parcial", "porcentaje": "30%", "nota": 6.8}], "semestre": "Semestre 1 (Pre) 2023"}, {"nombre": "ESTRUCTURAS DISCRETAS", "nota_final": 5.2, "id_curso": "01003097", "componentes": [{"nombre": "Parcial", "porcentaje": "15%", "nota": 4.8}, {"nombre": "Parcial", "porcentaje": "15%", "nota": 4.8}, {"nombre": "Parcial", "porcentaje": "20%", "nota": 4.8}, {"nombre": "Parcial", "porcentaje": "20%", "nota": 5.8}, {"nombre": "Parcial", "porcentaje": "30%", "nota": 5.4}], "semestre": "Semestre 1 (Pre) 2023"}, {"nombre": "FISICA II", "nota_final": 5.3, "id_curso": "01003089", "componentes": [{"nombre": "Parcial", "porcentaje": "30%", "nota": 5.3}, {"nombre": "Parcial", "porcentaje": "35%", "nota": 4.1}, {"nombre": "Parcial", "porcentaje": "35%", "nota": 6.4}], "semestre": "Semestre 2 (Pre) 2022"}, {"nombre": "LÓGICA PARA CIENCIA DE LA COMPUTACIÓN", "nota_final": 6.4, "id_curso": "01003092", "componentes": [{"nombre": "Parcial", "porcentaje": "30%", "nota": 5.6}, {"nombre": "Parcial", "porcentaje": "35%", "nota": 7.0}, {"nombre": "Parcial", "porcentaje": "35%", "nota": 6.6}], "semestre": "Semestre 2 (Pre) 2022"}, {"nombre": "PROGRAMACIÓN AVANZADA", "nota_final": 5.1, "id_curso": "01003091", "componentes": [{"nombre": "Parcial", "porcentaje": "20%", "nota": 4.0}, {"nombre": "Parcial", "porcentaje": "20%", "nota": 7.0}, {"nombre": "Parcial", "porcentaje": "30%", "nota": 4.6}, {"nombre": "Parcial", "porcentaje": "30%", "nota": 5.1}], "semestre": "Semestre 2 (Pre) 2022"}, {"nombre": "ARQUITECTURA DE COMPUTADORES", "nota_final": 5.8, "id_curso": "01003093", "componentes": [{"nombre": "Parcial", "porcentaje": "15%", "nota": 2.9}, {"nombre": "Parcial", "porcentaje": "20%", "nota": 7.0}, {"nombre": "Parcial", "porcentaje": "20%", "nota": 7.0}, {"nombre": "Parcial", "porcentaje": "20%", "nota": 5.9}, {"nombre": "Parcial", "porcentaje": "25%", "nota": 5.7}], "semestre": "Semestre 2 (Pre) 2022"}, {"nombre": "ALGEBRA II", "nota_final": null, "id_curso": "01003080", "componentes": [{"nombre": "Parcial", "porcentaje": "15%", "nota": null}, {"nombre": "Parcial", "porcentaje": "15%", "nota": null}, {"nombre": "Parcial", "porcentaje": "20%", "nota": null}, {"nombre": "Parcial", "porcentaje": "20%", "nota": null}, {"nombre": "Parcial", "porcentaje": "30%", "nota": null}], "semestre": "Semestre 2 (Pre) 2021"}, {"nombre": "ESTRUCTURAS DE DATOS", "nota_final": 5.7, "id_curso": "01003086", "componentes": [{"nombre": "Parcial", "porcentaje": "20%", "nota": 3.8}, {"nombre": "Parcial", "porcentaje": "40%", "nota": 6.5}, {"nombre": "Parcial", "porcentaje": "40%", "nota": 5.8}], "semestre": "Semestre 1 (Pre) 2022"}, {"nombre": "INGLES III", "nota_final": 6.2, "id_curso": "01005809", "componentes": [{"nombre": "Parcial", "porcentaje": "50%", "nota": 6.7}, {"nombre": "Parcial", "porcentaje": "50%", "nota": 5.6}], "semestre": "Semestre 1 (Pre) 2022"}, {"nombre": "EXPRESIÓN ORAL EN INGENIERIA", "nota_final": 6.6, "id_curso": "01003087", "componentes": [{"nombre": "Parcial", "porcentaje": "25%", "nota": 7.0}, {"nombre": "Parcial", "porcentaje": "25%", "nota": 7.0}, {"nombre": "Parcial", "porcentaje": "25%", "nota": 5.5}, {"nombre": "Parcial", "porcentaje": "25%", "nota": 6.8}], "semestre": "Semestre 1 (Pre) 2022"}, {"nombre": "FISICA I", "nota_final": 4.7, "id_curso": "01003084", "componentes": [{"nombre": "Parcial", "porcentaje": "15%", "nota": 6.2}, {"nombre": "Parcial", "porcentaje": "15%", "nota": 6.3}, {"nombre": "Parcial", "porcentaje": "20%", "nota": 1.3}, {"nombre": "Parcial", "porcentaje": "20%", "nota": 6.0}, {"nombre": "Parcial", "porcentaje": "30%", "nota": 4.6}], "semestre": "Semestre 1 (Pre) 2022"}, {"nombre": "CIRCUITOS DIGITALES", "nota_final": 6.2, "id_curso": "01003088", "componentes": [{"nombre": "Parcial", "porcentaje": "25%", "nota": 5.3}, {"nombre": "Parcial", "porcentaje": "25%", "nota": 7.0}, {"nombre": "Parcial", "porcentaje": "25%", "nota": 6.3}, {"nombre": "Parcial", "porcentaje": "25%", "nota": 6.2}], "semestre": "Semestre 1 (Pre) 2022"}, {"nombre": "INGLÉS II", "nota_final": 6.0, "id_curso": "01005759", "componentes": [{"nombre": "Parcial", "porcentaje": "50%", "nota": 6.0}, {"nombre": "Parcial", "porcentaje": "50%", "nota": 6.0}], "semestre": "Semestre 2 (Pre) 2021"}, {"nombre": "COMPRENSIÓN LECTORA Y PROD. DE TEXTOS", "nota_final": 5.1, "id_curso": "01003083", "componentes": [{"nombre": "Parcial", "porcentaje": "25%", "nota": 5.3}, {"nombre": "Parcial", "porcentaje": "25%", "nota": 5.5}, {"nombre": "Parcial", "porcentaje": "25%", "nota": 3.0}, {"nombre": "Parcial", "porcentaje": "25%", "nota": 6.5}], "semestre": "Semestre 2 (Pre) 2021"}, {"nombre": "CALCULO II", "nota_final": 6.0, "id_curso": "01003081", "componentes": [{"nombre": "Parcial", "porcentaje": "20%", "nota": 6.6}, {"nombre": "Parcial", "porcentaje": "20%", "nota": 5.5}, {"nombre": "Parcial", "porcentaje": "30%", "nota": 5.9}, {"nombre": "Parcial", "porcentaje": "30%", "nota": 6.0}], "semestre": "Semestre 2 (Pre) 2021"}, {"nombre": "PROGRAMACIÓN", "nota_final": 6.6, "id_curso": "01003082", "componentes": [{"nombre": "Parcial", "porcentaje": "20%", "nota": 7.0}, {"nombre": "Parcial", "porcentaje": "20%", "nota": 7.0}, {"nombre": "Parcial", "porcentaje": "20%", "nota": 5.8}, {"nombre": "Parcial", "porcentaje": "40%", "nota": 6.5}], "semestre": "Semestre 2 (Pre) 2021"}, {"nombre": "GESTIÓN INFORMÁTICA I", "nota_final": 6.2, "id_curso": "01003116", "componentes": [{"nombre": "Parcial", "porcentaje": "20%", "nota": 6.8}, {"nombre": "Parcial", "porcentaje": "20%", "nota": 5.2}, {"nombre": "Parcial", "porcentaje": "30%", "nota": 5.8}, {"nombre": "Parcial", "porcentaje": "30%", "nota": 7.0}], "semestre": "Semestre 1 (Pre) 2026"}, {"nombre": "SISTEMAS DISTRIBUIDOS", "nota_final": null, "id_curso": "01003119", "componentes": [{"nombre": "Parcial", "porcentaje": "30%", "nota": null}, {"nombre": "Parcial", "porcentaje": "30%", "nota": null}, {"nombre": "Parcial", "porcentaje": "40%", "nota": null}], "semestre": "Semestre 1 (Pre) 2026"}, {"nombre": "FORM. Y EVAL. DE PROYECTOS INFORMÁTICOS", "nota_final": 5.8, "id_curso": "01003115", "componentes": [{"nombre": "Parcial", "porcentaje": "25%", "nota": 3.6}, {"nombre": "Parcial", "porcentaje": "35%", "nota": 6.7}, {"nombre": "Parcial", "porcentaje": "40%", "nota": 6.3}], "semestre": "Semestre 1 (Pre) 2026"}, {"nombre": "INGENIERÍA DE SOFTWARE II", "nota_final": 6.2, "id_curso": "01003118", "componentes": [{"nombre": "Parcial", "porcentaje": "20%", "nota": 6.5}, {"nombre": "Parcial", "porcentaje": "20%", "nota": 6.3}, {"nombre": "Parcial", "porcentaje": "30%", "nota": 6.0}, {"nombre": "Parcial", "porcentaje": "30%", "nota": 6.2}], "semestre": "Semestre 1 (Pre) 2026"}, {"nombre": "CALIDAD Y PRODUCTIVIDAD DE SOFTWARE", "nota_final": 5.1, "id_curso": "01003117", "componentes": [{"nombre": "Parcial", "porcentaje": "20%", "nota": 5.0}, {"nombre": "Parcial", "porcentaje": "25%", "nota": 3.3}, {"nombre": "Parcial", "porcentaje": "25%", "nota": 5.6}, {"nombre": "Parcial", "porcentaje": "30%", "nota": 6.1}], "semestre": "Semestre 1 (Pre) 2026"}, {"nombre": "IMPLEMENTACION DE LA R.S.E. Y NUEVOS DES", "nota_final": null, "id_curso": "01005358", "componentes": [{"nombre": "Parcial", "porcentaje": "30%", "nota": 7.0}, {"nombre": "Parcial", "porcentaje": "30%", "nota": 5.2}, {"nombre": "Parcial", "porcentaje": "40%", "nota": null}], "semestre": "Semestre 1 (Pre) 2026"}]};